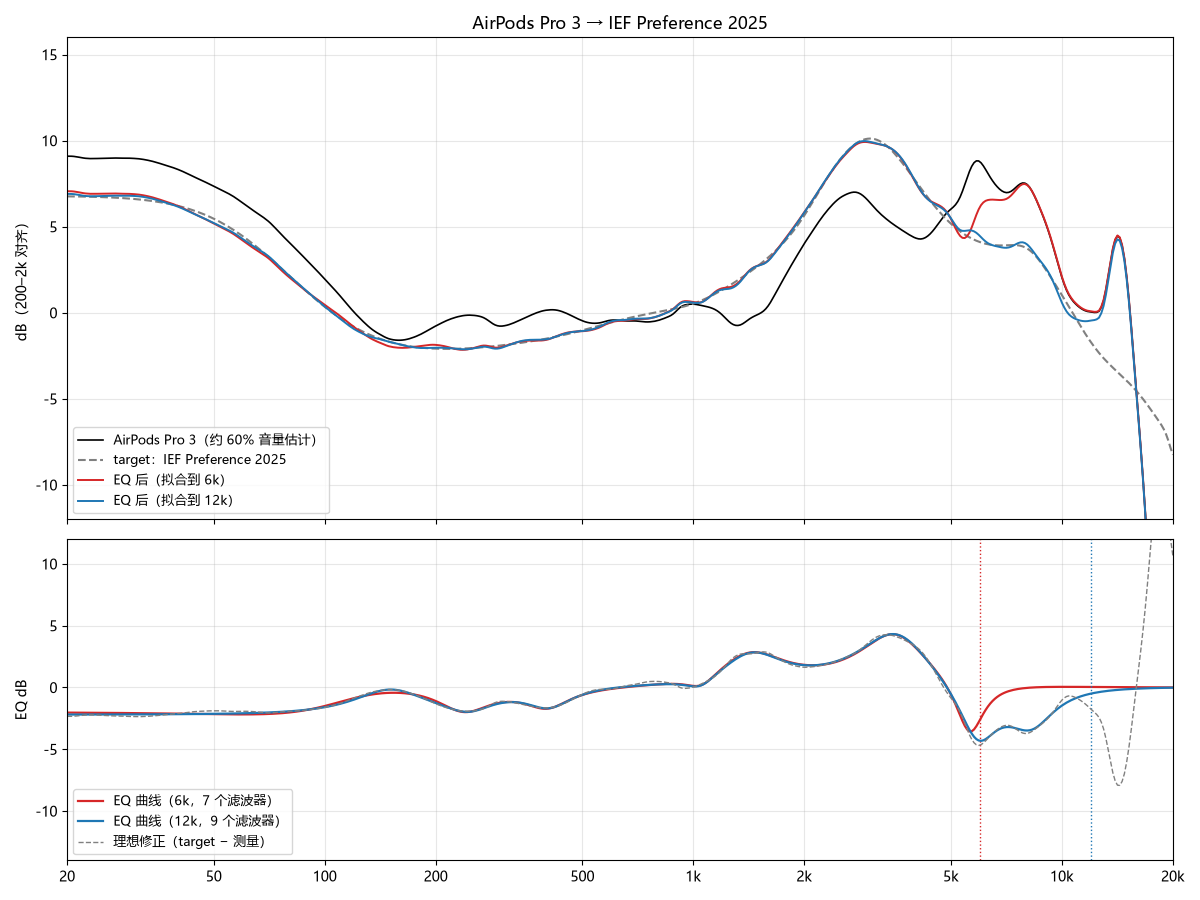
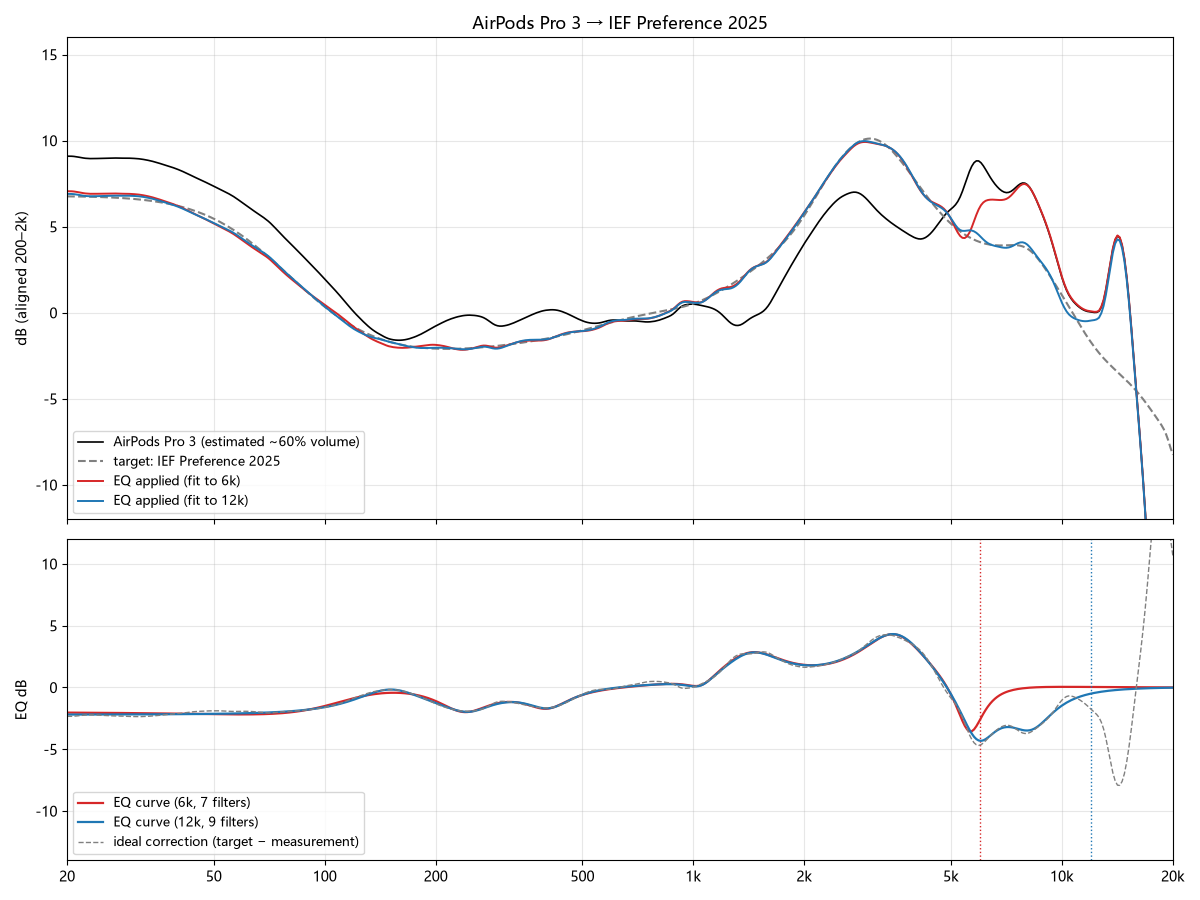
README in English (default) + 中文版; embed fit plots; English plot labels

Changed region(s): [[0.0617, 0.8711, 0.3083, 0.9644], [0.0617, 0.4667, 0.3083, 0.56], [0.0, 0.2489, 0.0308, 0.3733]]

diff --git a/README.md b/README.md
@@ -1,72 +1,90 @@
-# AirPods Pro 3 PEQ（约 60% 音量，按 5128 测量拟合）
+# AirPods Pro 3 PEQ (≈60% volume, fitted to B&K 5128 measurements)
 
-把 AirPods Pro 3 的频响拟合到几条常见目标曲线（LMG 0.6、JM-1 −10 dB tilt、Harman 2025 MoA、IEF Preference 2025、SoundGuys）上得到的参数式均衡器（PEQ）。每条目标都有 6 kHz 和 12 kHz 两个拟合上限版本。
+**English** | [中文](README.zh-CN.md)
 
-> **注意**：测量曲线是多家 B&K 5128 数据综合出来的 **60% 音量估计**，不是对你这副耳机的实测。耳机固件版本、耳塞套、佩戴位置、降噪状态和音量都会改变响应，请把它当作起点，而不是标准答案。
+Parametric EQ (PEQ) presets that fit the AirPods Pro 3 response to several popular target curves: LMG 0.6, JM-1 −10 dB tilt, Harman 2025 MoA, IEF Preference 2025 and SoundGuys. Each target has a 6 kHz and a 12 kHz fit-range version.
 
-## 文件
+> **Note:** the measurement used here is a **≈60% volume estimate** built from several B&K 5128 measurements, not a measurement of your own unit. Firmware, ear tips, fit, noise cancelling state and volume all change the response. Treat these presets as a starting point, not a reference.
 
-| 路径 | 内容 |
+## Fit results
+
+Each plot shows the estimated measurement (black), the target (dashed grey), the response after EQ at 6 kHz (red) and 12 kHz (blue), and the EQ curves with the ideal correction (target − measurement).
+
+### LMG 0.6
+![LMG 0.6 fit](plots/fit_LMG06.png)
+
+### JM-1 −10 dB tilt
+![JM-1 -10 dB tilt fit](plots/fit_JM1-10dB.png)
+
+### Harman 2025 MoA
+![Harman 2025 MoA fit](plots/fit_Harman25.png)
+
+### IEF Preference 2025
+![IEF Preference 2025 fit](plots/fit_IEF25.png)
+
+### SoundGuys
+![SoundGuys fit](plots/fit_SoundGuys.png)
+
+## Files
+
+| Path | Content |
 |---|---|
-| `presets/*.txt` | PEQ 参数，Equalizer APO 格式（`Preamp` + `Filter N: ON ...`） |
-| `plots/fit_*.png` | 每条目标的拟合结果：估计测量、目标曲线、拟合后响应，以及 EQ 曲线 |
+| `presets/*.txt` | PEQ filters in Equalizer APO format (`Preamp` + `Filter N: ON ...`) |
+| `plots/fit_*.png` | Fit result for each target |
 
-文件名格式为 `<目标>_<上限>.txt`，例如 `LMG06_12k.txt` 表示 LMG 0.6 目标、拟合到 12 kHz。
+Naming: `<target>_<range>.txt`, e.g. `LMG06_12k.txt` = LMG 0.6 target, fit up to 12 kHz.
 
-## 使用
+## Usage
 
-1. 把 `presets/` 里的 `.txt` 导入支持 Equalizer APO 格式的均衡器（Windows 上的 Equalizer APO，或 Peace 等）。Android 上的 App 不一定都支持这个格式，导入前先确认。
-2. 把 `Preamp` 的值一起设上，这是为了给提升的频段留余量，避免削波。
-3. 从 12 kHz 版本开始听。6 kHz 版本在 6 kHz 以上完全不修正，更保守。
-4. 比较不同预设时，**音量保持不变**。这些预设已经做过等响度对齐，但对齐只是按粉红噪声估算，听感差 ±0.5 dB 是正常的。
+1. Import a preset into an app that reads Equalizer APO format (Equalizer APO on Windows, Peace, etc.). Not every Android app accepts this format. Check before relying on one.
+2. Set the `Preamp` value too. It leaves headroom for the boosted bands and avoids clipping.
+3. Start with the 12 kHz versions. The 6 kHz versions leave everything above 6 kHz untouched, which is more conservative.
+4. When comparing presets, **keep the volume the same**. The presets are loudness-matched, but that matching is estimated from pink noise, so ±0.5 dB of perceived difference is normal.
 
-## 目标曲线
+## Targets
 
-| 文件 | 目标 | 说明 |
+| Preset prefix | Target | Notes |
 |---|---|---|
-| `LMG06_*` | LMG 0.6 | LTT Labs 的 B&K 5128 目标，偏向"偏好"取向 |
-| `JM1-10dB_*` | JM-1 −10 dB tilt | JM-1 5128 目标，加了 −1 dB/oct 的倾斜（比 5128 JM-1 更暗） |
-| `Harman25_*` | Harman 2025 MoA | Harman 2025 年的平均目标 |
-| `IEF25_*` | IEF Preference 2025 | 基于 JM-1 加低频提升、高频降低的偏好版 |
-| `SoundGuys_*` | SoundGuys | SoundGuys 的 5128 目标 |
+| `LMG06_*` | LMG 0.6 | B&K 5128 target from LTT Labs, leaning toward preference |
+| `JM1-10dB_*` | JM-1 −10 dB tilt | JM-1 5128 target with a −1 dB/octave tilt (darker than the plain JM-1) |
+| `Harman25_*` | Harman 2025 MoA | Harman 2025 average target |
+| `IEF25_*` | IEF Preference 2025 | Preference-oriented version of JM-1 with extra bass and less treble |
+| `SoundGuys_*` | SoundGuys | SoundGuys 5128 target |
 
-目标曲线的数据版权归各自的发布方所有。这里只给出拟合后的 PEQ 参数，不包含原始目标数据。
+Target data belongs to its publishers. This repo only contains the fitted PEQ parameters, not the original target data.
 
-## 数据来源（原始数据不在本仓库中）
+## Data sources (raw data is not included)
 
-以下是拟合所用数据的来源网站。具体条目的深层链接没有逐一记录，请在站内搜索 `AirPods Pro 3` 或 `5128`。
-
-| 来源 | 网址 | 用途 |
+| Source | URL | Used for |
 |---|---|---|
-| earphonesarchive | https://earphonesarchive.squig.link/ | AirPods Pro 3 的 B&K 5128 测量（iPhone，vol-4，ANC 开/关、通透），以及部分目标 |
-| Hangout / Crinacle 5128 | https://graph.hangout.audio/iem/5128 | AirPods Pro 3 的 5128 测量（macOS、Windows、多次佩戴），以及 LMG 0.6、JM-1、Harman 2025、IEF 2025、SoundGuys 目标 |
-| headphones.com GraphWorks | https://headphones.com/ （产品 slug `airpods-pro-3`） | 16 个音量档的 5128 测量（测量 ID `cmqtqbexe000004jv2mqogkh0`） |
-| squig.link | https://squig.link/ | 711 耳机耦合器测量，不是 5128，只用于估算 60% 音量的变化量 |
+| earphonesarchive | https://earphonesarchive.squig.link/ | B&K 5128 measurements of AirPods Pro 3 (iPhone, vol-4, ANC on/off, transparency) and some targets |
+| Hangout / Crinacle 5128 | https://graph.hangout.audio/iem/5128 | 5128 measurements of AirPods Pro 3 (macOS, Windows, multiple seatings) and the LMG 0.6, JM-1, Harman 2025, IEF 2025 and SoundGuys targets |
+| headphones.com GraphWorks | https://headphones.com/ (product slug `airpods-pro-3`) | 16 volume-setting 5128 measurements (measurement ID `cmqtqbexe000004jv2mqogkh0`) |
+| squig.link | https://squig.link/ | 711 coupler measurements. Not 5128. Used only to estimate how the response changes with volume |
 
-拉取时间：2026-11 月。测量站点的数据随时可能更新，建议以当时页面为准。
+Deep links to the individual entries were not recorded. Search each site for `AirPods Pro 3` or `5128`. Data was retrieved in 2026-11 and may have changed since.
 
-## 拟合方法
+## Method
 
-- 测量基线：多家 B&K 5128 测量在 200 Hz–2 kHz 对齐后综合，再用其他来源的音量变化估算到约 60% 音量。
-- 拟合目标：目标曲线 − 测量曲线，只拟合 1/6 倍频程平滑后的误差。
-- 滤波器：1 个低架 + 8 个峰值滤波器。上限以上的 EQ 保持为 0 dB。
-- 增益惩罚：每 dB 增益 0.3 的平方惩罚，防止大正大负互相抵消。拟合后合并重复的滤波器（同频率、同 Q），再精修一次。
-- 误差：拟合范围内各段 RMS 多数在 0.1–0.6 dB 之间，10–12 kHz 段最大约 0.6 dB（12 kHz 版本）。
+- **Measurement baseline:** the 5128 measurements from several sources are aligned at 200 Hz–2 kHz and combined. The response is then adjusted to ≈60% volume using the volume changes seen in the other sources.
+- **Fit target:** target − measurement, fitted to the error smoothed at 1/6 octave.
+- **Filters:** 1 low shelf + 8 peaking filters. The EQ is held at 0 dB above the fit range.
+- **Regularisation:** a squared penalty of 0.3 per dB of gain stops the optimiser from cancelling large boosts and cuts against each other. After fitting, duplicate filters (same frequency and Q) are merged and the remaining filters are refitted once.
+- **Error:** RMS error inside the fit range is mostly 0.1–0.6 dB. The 10–12 kHz band reaches about 0.6 dB in the 12 kHz versions.
 
-## 没有包含的内容
+## Not included
 
-- 原始测量数据（各站点的 CSV / 原始 JSON）
-- 目标曲线的原始 CSV
-- 带 MSEB（TempoTec V1 的低频 +2 dB、空气感 +2 dB 等）的版本
-- V4A 的 DDC 文件（`.vdc`）
+- Raw measurement data and raw target CSVs (see the sources table above)
+- The version with MSEB (TempoTec V1 bass +2 dB, air +2 dB and related tweaks)
+- Any V4A DDC binary files (`.vdc`)
 
-## 局限
+## Limitations
 
-- 只有一种测量条件（原装耳塞套、开降噪、约 60% 音量）。换耳塞套、关降噪或音量变化，响应都会改变。
-- 60% 音量的测量曲线是**估算**，不是实测。
-- 目标曲线本身有取舍（例如 LMG 0.6 的数值含义没有完全公开确认），选哪条取决于你的口味。
-- 高于 10 kHz 的修正依据较弱，各家测量差异也大，建议用 6 kHz 版本或直接不修正。
+- There is only one measurement condition: stock ear tips, ANC on, about 60% volume. Different tips, ANC off or a different volume will change the response.
+- The 60% volume response is an **estimate**, not a measurement.
+- The targets involve trade-offs. For example, what the "0.6" in LMG 0.6 means has not been publicly confirmed. Choosing a target is a matter of taste.
+- Corrections above 10 kHz are weakly supported, and the sources disagree a lot there. The 6 kHz versions are safer.
 
-## 许可
+## License
 
-待定。
+To be decided.

diff --git a/README.zh-CN.md b/README.zh-CN.md
@@ -1,0 +1,90 @@
+# AirPods Pro 3 PEQ（约 60% 音量，按 B&K 5128 测量拟合）
+
+[English](README.md) | **中文**
+
+把 AirPods Pro 3 的频响拟合到几条常见目标曲线上得到的参数式均衡器（PEQ）预设：LMG 0.6、JM-1 −10 dB tilt、Harman 2025 MoA、IEF Preference 2025 和 SoundGuys。每条目标都有 6 kHz 和 12 kHz 两个拟合上限的版本。
+
+> **注意**：这里用的测量曲线是多家 B&K 5128 数据综合出来的 **约 60% 音量估计**，不是对你这副耳机的实测。固件版本、耳塞套、佩戴位置、降噪状态和音量都会改变响应。请把这些预设当作起点，而不是标准答案。
+
+## 拟合结果
+
+每张图包含：估计测量（黑）、目标曲线（灰色虚线）、6 kHz 版 EQ 后的响应（红）、12 kHz 版 EQ 后的响应（蓝），以及 EQ 曲线和理想修正（目标 − 测量）。
+
+### LMG 0.6
+![LMG 0.6 拟合](plots/fit_LMG06.png)
+
+### JM-1 −10 dB tilt
+![JM-1 −10 dB tilt 拟合](plots/fit_JM1-10dB.png)
+
+### Harman 2025 MoA
+![Harman 2025 MoA 拟合](plots/fit_Harman25.png)
+
+### IEF Preference 2025
+![IEF Preference 2025 拟合](plots/fit_IEF25.png)
+
+### SoundGuys
+![SoundGuys 拟合](plots/fit_SoundGuys.png)
+
+## 文件
+
+| 路径 | 内容 |
+|---|---|
+| `presets/*.txt` | PEQ 滤波器，Equalizer APO 格式（`Preamp` + `Filter N: ON ...`） |
+| `plots/fit_*.png` | 每条目标的拟合结果 |
+
+命名规则：`<目标>_<上限>.txt`，例如 `LMG06_12k.txt` 表示 LMG 0.6 目标，拟合到 12 kHz。
+
+## 使用
+
+1. 把预设导入支持 Equalizer APO 格式的均衡器（Windows 上的 Equalizer APO、Peace 等）。Android 上不是每个 App 都支持这个格式，用之前先确认。
+2. 同时设置 `Preamp`。它为提升的频段留出余量，避免削波。
+3. 建议先用 12 kHz 版本。6 kHz 版本在 6 kHz 以上完全不修正，更保守。
+4. 比较不同预设时，**音量保持不变**。预设已经做过等响度对齐，但对齐是按粉红噪声估算的，听感上差 ±0.5 dB 很正常。
+
+## 目标曲线
+
+| 预设前缀 | 目标 | 说明 |
+|---|---|---|
+| `LMG06_*` | LMG 0.6 | LTT Labs 的 B&K 5128 目标，偏向"偏好"取向 |
+| `JM1-10dB_*` | JM-1 −10 dB tilt | JM-1 5128 目标加上 −1 dB/oct 倾斜，比原版 JM-1 更暗 |
+| `Harman25_*` | Harman 2025 MoA | Harman 2025 年的平均目标 |
+| `IEF25_*` | IEF Preference 2025 | 基于 JM-1 的偏好版，低频提升、高频降低 |
+| `SoundGuys_*` | SoundGuys | SoundGuys 的 5128 目标 |
+
+目标曲线的数据版权归各自的发布方所有。这里只包含拟合后的 PEQ 参数，不包含原始目标数据。
+
+## 数据来源（原始数据不在仓库中）
+
+| 来源 | 网址 | 用途 |
+|---|---|---|
+| earphonesarchive | https://earphonesarchive.squig.link/ | AirPods Pro 3 的 B&K 5128 测量（iPhone、vol-4、ANC 开/关、通透），以及部分目标 |
+| Hangout / Crinacle 5128 | https://graph.hangout.audio/iem/5128 | AirPods Pro 3 的 5128 测量（macOS、Windows、多次佩戴），以及 LMG 0.6、JM-1、Harman 2025、IEF 2025、SoundGuys 目标 |
+| headphones.com GraphWorks | https://headphones.com/（产品 slug `airpods-pro-3`） | 16 个音量档的 5128 测量（测量 ID `cmqtqbexe000004jv2mqogkh0`） |
+| squig.link | https://squig.link/ | 711 耳机耦合器测量。不是 5128，只用于估算音量变化带来的响应变化 |
+
+没有记录各条目的深层链接，请在站内搜索 `AirPods Pro 3` 或 `5128`。数据拉取于 2026-11，之后站点数据可能有变化。
+
+## 方法
+
+- **测量基线**：多家 5128 测量在 200 Hz–2 kHz 对齐后综合，再用其他来源的音量变化估算到约 60% 音量。
+- **拟合目标**：目标 − 测量，只拟合经 1/6 倍频程平滑后的误差。
+- **滤波器**：1 个低架 + 8 个峰值滤波器。拟合上限以上的 EQ 保持为 0 dB。
+- **正则化**：每 dB 增益 0.3 的平方惩罚，防止优化器把大的提升和衰减互相抵消。拟合后合并重复的滤波器（同频率、同 Q），再精修一次。
+- **误差**：拟合范围内各段 RMS 多数在 0.1–0.6 dB。12 kHz 版本的 10–12 kHz 段约 0.6 dB。
+
+## 未包含的内容
+
+- 原始测量数据和原始目标 CSV（见上面的数据来源表）
+- 带 MSEB 的版本（TempoTec V1 的低频 +2 dB、空气感 +2 dB 等）
+- V4A 的 DDC 二进制文件（`.vdc`）
+
+## 局限
+
+- 只有一种测量条件：原装耳塞套、开降噪、约 60% 音量。换耳塞套、关降噪或改变音量，响应都会改变。
+- 60% 音量的响应是**估算**，不是实测。
+- 目标曲线本身有取舍。例如 LMG 0.6 里的"0.6"具体含义没有公开确认。选哪条目标取决于口味。
+- 10 kHz 以上的修正依据较弱，各来源在这一段差异很大。6 kHz 版本更稳妥。
+
+## 许可
+
+待定。
